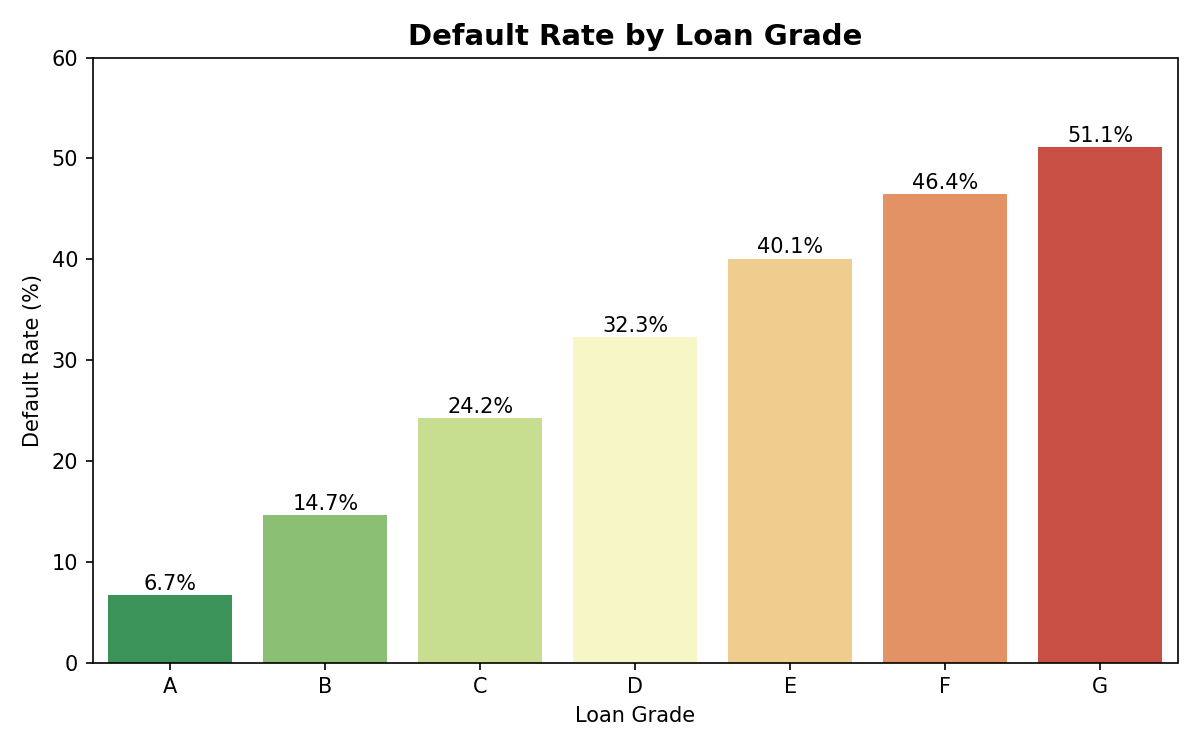
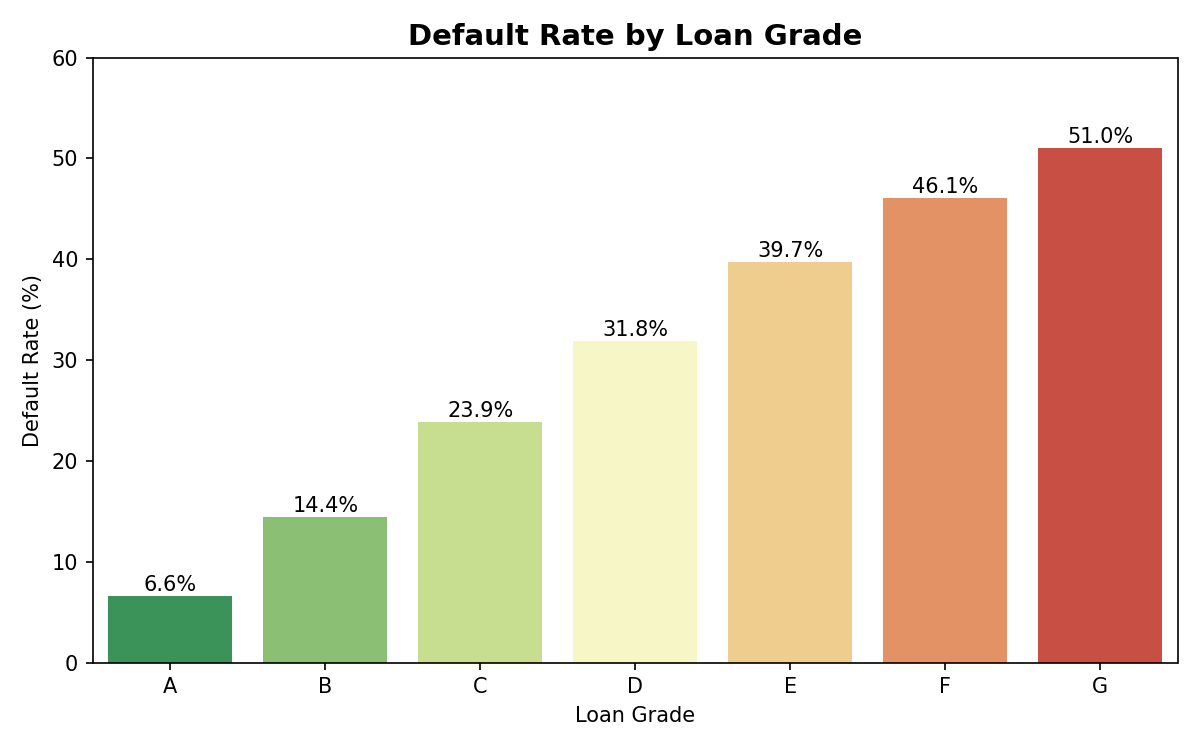
refactor: switch to multiclass classification per professor feedback
- Changed binary target (is_default) to 3-class risk_class
  (0=Fully Paid, 1=Early Delinquency, 2=Default)
- Replaced median imputation with row deletion (lost <0.1% of data)
- Updated all model evaluations to multiclass AUC and recall benchmarks
- Added AUC >0.70 and Default Recall >0.35 benchmark justifications
- Updated all is_default references to risk_class throughout notebook

diff --git a/dashboard/app.py b/dashboard/app.py
@@ -16,9 +16,10 @@ st.set_page_config(
 @st.cache_resource
 def load_model():
     model = joblib.load(r'C:\Users\czhen\Desktop\loan-default-prediction\models\xgb_model.pkl')
-    return model
+    explainer = shap.TreeExplainer(model)
+    return model, explainer
 
-xgb_model = load_model()
+xgb_model, explainer = load_model()
 
 # ── HEADER ──
 st.title("🏦 Loan Default Prediction Dashboard")
@@ -88,11 +89,12 @@ col3.metric("Decision", decision)
 
 st.divider()
 
-# ── THRESHOLD SIMULATOR ──
-st.subheader("📊 Threshold Business Impact")
-col1, col2 = st.columns(2)
+# ── TWO COLUMN LAYOUT ──
+left, right = st.columns(2)
 
-with col1:
+with left:
+    # Loan summary table
+    st.subheader("📋 Loan Summary")
     st.markdown(f"""
     | Metric | Value |
     |--------|-------|
@@ -102,15 +104,19 @@ with col1:
     | Loan Amount | ${loan_amnt:,} |
     | Grade | {grade} |
     | FICO Score | {fico} |
+    | Annual Income | ${annual_inc:,} |
+    | DTI | {dti} |
+    | Purpose | {purpose} |
     """)
 
-with col2:
-    # Gauge chart
-    fig, ax = plt.subplots(figsize=(4, 3))
+with right:
+    # Risk gauge
+    st.subheader("🎯 Risk Gauge")
+    fig, ax = plt.subplots(figsize=(5, 3))
     ax.barh(['Risk Score'], [prob], color=color, height=0.3)
-    ax.barh(['Risk Score'], [1 - prob], left=[prob], 
+    ax.barh(['Risk Score'], [1 - prob], left=[prob],
              color='lightgray', height=0.3)
-    ax.axvline(x=threshold, color='black', linestyle='--', 
+    ax.axvline(x=threshold, color='black', linestyle='--',
                 label=f'Threshold ({threshold:.0%})')
     ax.set_xlim(0, 1)
     ax.set_title('Default Risk Gauge')
@@ -118,4 +124,31 @@ with col2:
     st.pyplot(fig)
 
 st.divider()
-st.markdown("*Built by Cindy Zheng | Capstone Project 2025*")
+
+# ── SHAP EXPLANATION ──
+st.subheader("🔍 SHAP Explanation — Why did the model make this decision?")
+
+shap_values = explainer.shap_values(input_df)
+
+fig2, ax2 = plt.subplots(figsize=(10, 6))
+shap.plots.waterfall(
+    shap.Explanation(
+        values=shap_values[0],
+        base_values=explainer.expected_value,
+        data=input_df.iloc[0],
+        feature_names=input_df.columns.tolist()
+    ),
+    show=False
+)
+plt.tight_layout()
+st.pyplot(fig2)
+
+st.markdown("""
+**How to read this chart:**
+- 🔴 **Red bars** push the prediction toward default
+- 🔵 **Blue bars** push the prediction away from default  
+- The final score is the sum of all bars starting from the baseline
+""")
+
+st.divider()
+st.markdown("*Built by Cindy Zheng | Capstone Project 2026*")
